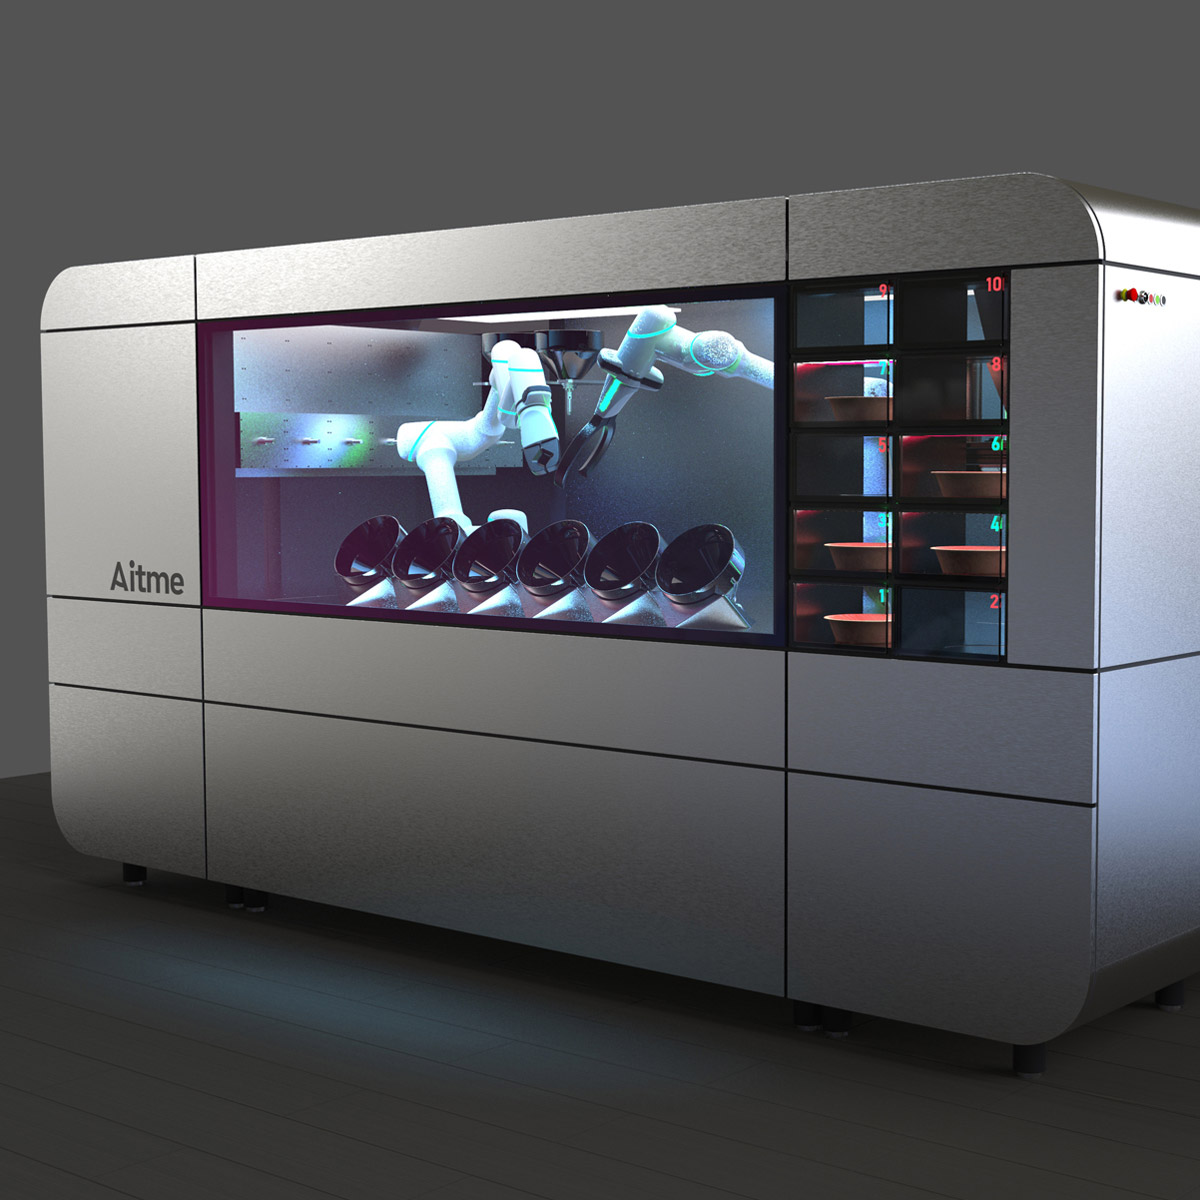
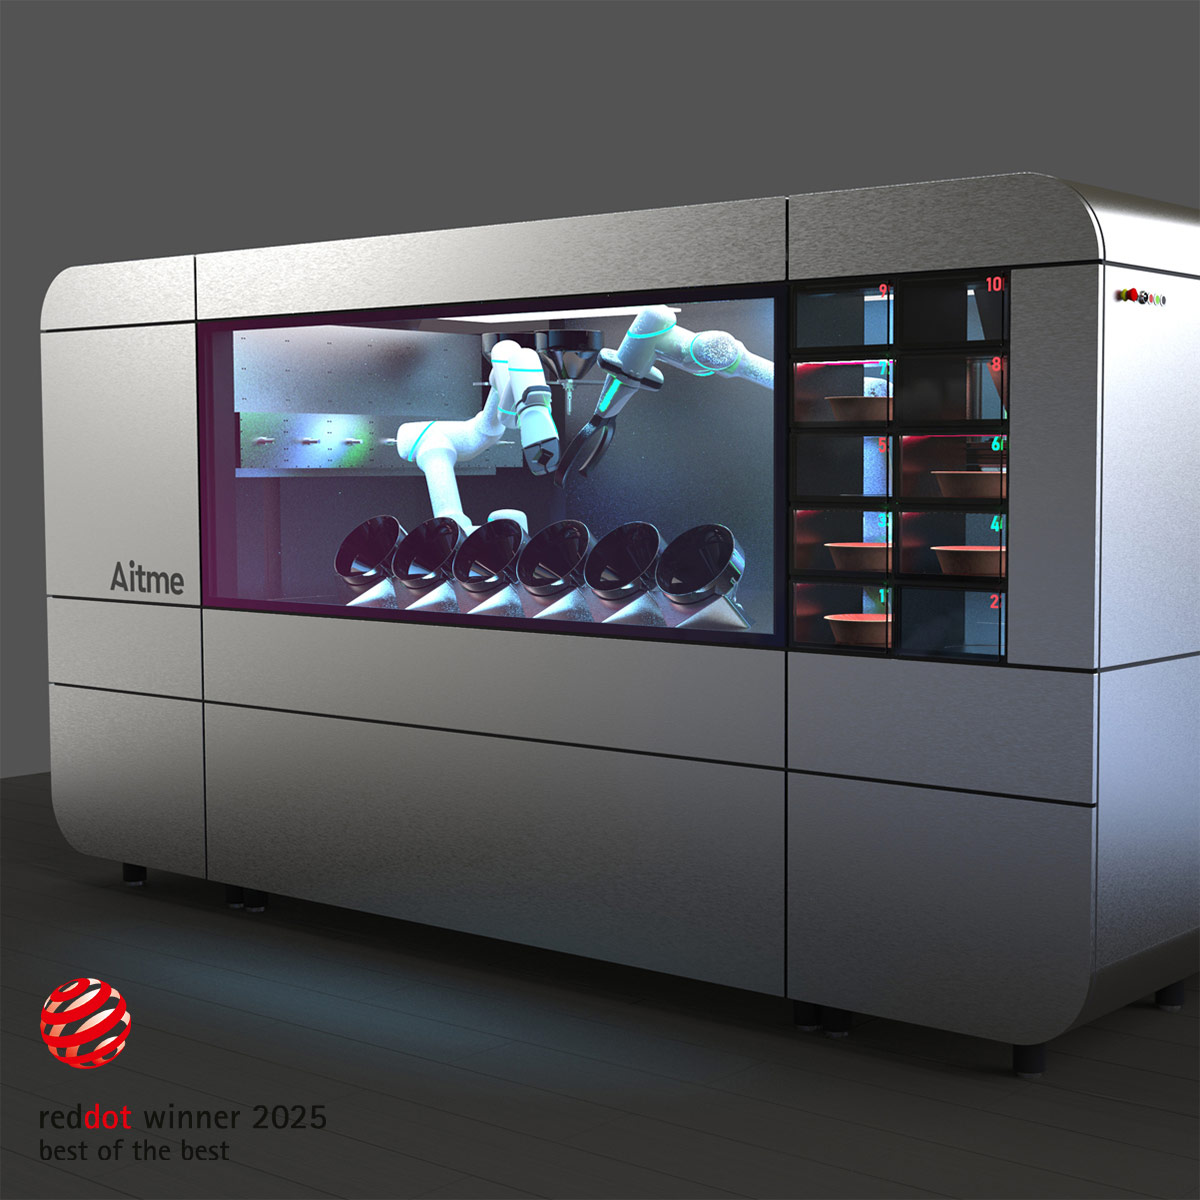
Aitme-CircusGroup updated.

Changed region(s): [[0.0308, 0.925, 0.2775, 0.9867], [0.0308, 0.8017, 0.1233, 0.8942]]

diff --git a/about/index.html b/about/index.html
@@ -91,10 +91,10 @@
           <img src="../work/KUKA_KR_800_R3200-2_PA/241031-KUKA-KR-800-R3200-2-PA-Cover.jpg"
             alt="KUKA KR 800 R3200-2 PA Cover">
         </a>
-        <!-- <a href="../work/Aitme-CircusGroup_Robotic_Kitchen/">
-          <img src="../work/Aitme-CircusGroup_Robotic_Kitchen/210510 Aitme X Robotic Kitchen 1200x1200 02.jpg"
+        <a href="../work/Aitme-CircusGroup_Robotic_Kitchen/">
+          <img src="../work/Aitme-CircusGroup_Robotic_Kitchen/210510-Aitme-X-Robotic-Kitchen-1200x1200-Cover.jpg"
             alt="KUKA KR 800 R3200-2 PA Cover">
-        </a> -->
+        </a>
         <a href="../work/KUKA_KR_DELTA_HM/">
           <img src="../work/KUKA_KR_DELTA_HM/231030-KUKA-KR-DELTA-HM-Cover.jpg" alt="KUKA KR DELTA HM Cover">
         </a>

diff --git a/work/Aitme-CircusGroup_Robotic_Kitchen/index.html b/work/Aitme-CircusGroup_Robotic_Kitchen/index.html
@@ -39,6 +39,9 @@
   <section class="banner">
     <img src="210510-Aitme-X-Robotic-Kitchen-1920x1200-Banner.jpg" alt="Aitme / Circus Group Robotic Kitchen Banner">
   </section>
+  <section class="awards">
+    <img class="awards-label" src="Red Dot PD2025_BoB_t.png" alt="Red Dot award label">
+  </section>
   <main>
     <div class="grid project-text">
       <div class="cell-1">
